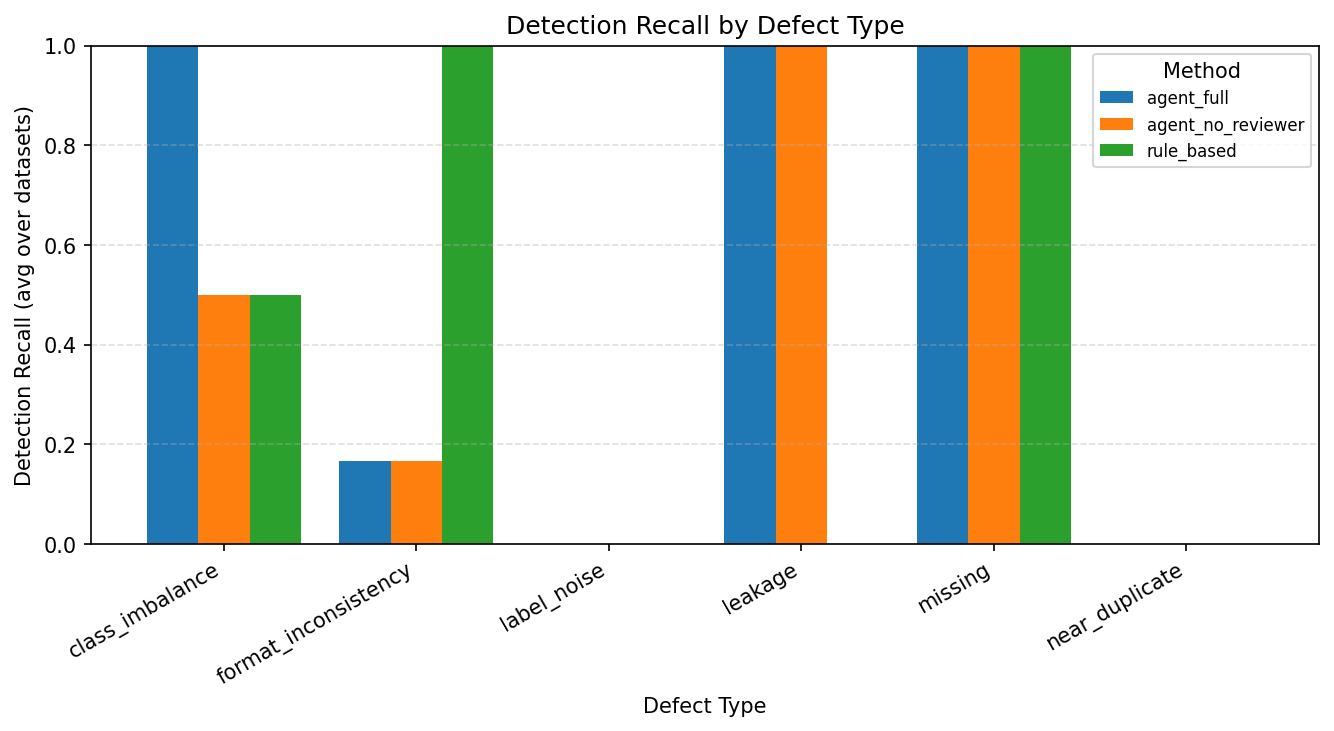
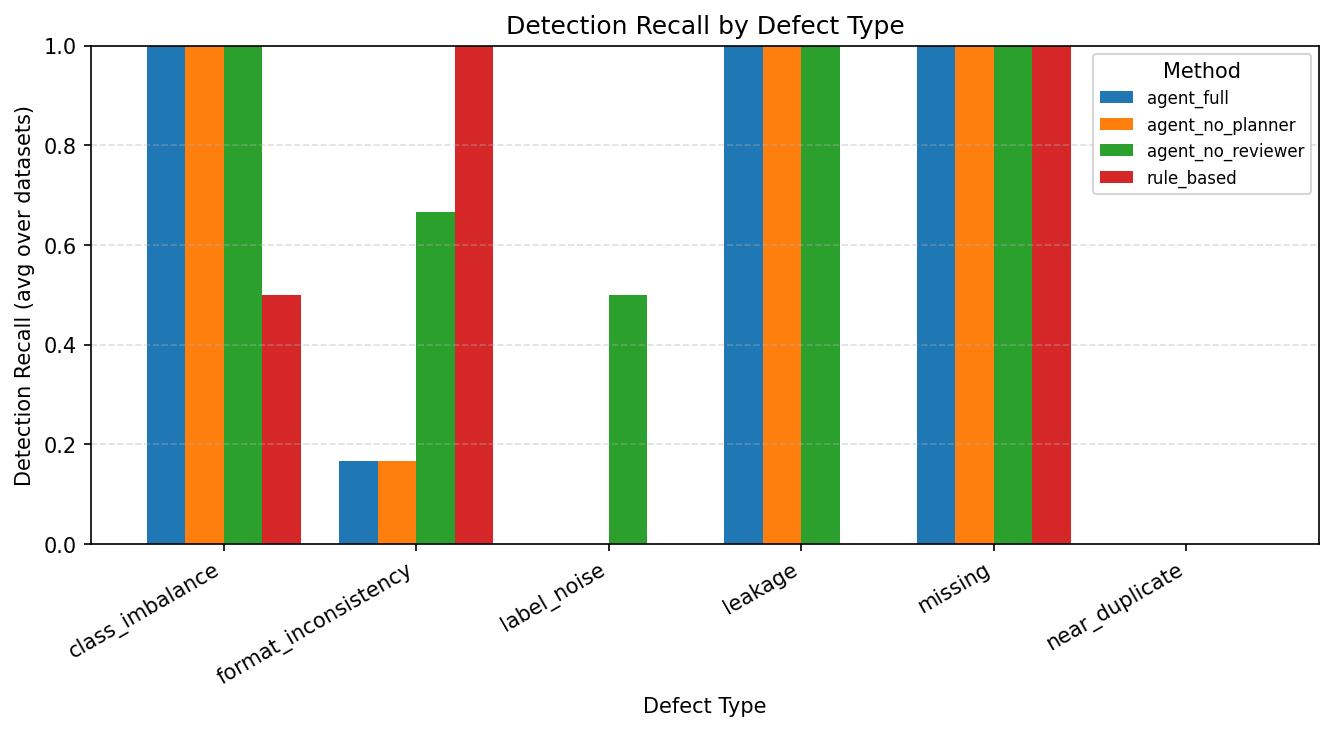
feat(experiments): 补充 Planner 消融并据真实结果修订报告
- 新增 agent_no_planner 配置，围绕 agent_full 同时隔离 Planner 与 Reviewer。
- 复跑全量实验后修订 §4.2/§4.3/§5.1：三配置下游 AUC/Recovery 完全一致，消融维度差异在 LLM 运行间噪声内，不再宣称 Reviewer 稳定增益；新增复现非确定性说明与对应预案。

diff --git a/reports/中期进展报告.md b/reports/中期进展报告.md
@@ -1,22 +1,18 @@
 # 数据挖掘课程项目 - 中期进展报告
 
-> **项目方向**：基于脏数据基准的 LLM Data Agent 评估框架
-
 ## 0. 项目基本信息
 
-- **项目名称**：脏数据基准——LLM Data Agent 的缺陷检测与修复能力评估框架
-- **项目链接**：（团队公开仓库 URL，待填）
+- **项目名称**：基于脏数据基准的 LLM Data Agent 评估框架
+- **项目链接**：[GitHub](https://github.com/Xheng222/data-mining-coursework)
 - **小组成员与分工**：
-
-> 说明：本表按**功能模块**划分职责，与开题报告的分工一脉相承。学号及成员与模块的最终归属请团队核对后填写。本阶段代码以统一账号提交、按功能分支组织（见 §1.2）；终期前请各成员以本人账号补充真实提交，以满足贡献审计。
 
 | 姓名 | 学号 | 组内角色 | 开题以来的核心贡献 | 中期之后的分工规划 |
 | :--- | :--- | :--- | :--- | :--- |
-| 张子硕（组长） | 2026xxxx | Agent 架构 | LangGraph 状态机装配、CLI 入口、消融开关拓扑（`feature/agent`） | 调优 Agent，扩展 prompt 策略消融 |
-| 郭荆 | 2026xxxx | Agent 算法 | Planner/Executor/Reviewer/Reporter 四节点、确定性工具与稳健 LLM 调用（`feature/agent`） | 提升缺陷检测召回，引入新检测信号 |
-| 吴梦硕 | 2026xxxx | 数据工程 | 合成数据生成与六类缺陷注入、ground-truth 落盘（`feature/datagen`） | 接入 CleanML 真实数据集 |
-| 毛凯 | 2026xxxx | 评测与实验 | Detection/Recovery 指标、端到端实验编排与可视化（`feature/evaluate`、`feature/experiments`） | 跑全量消融，绘制定量图表 |
-| 张奕恒 | 2026xxxx | 基线与测试 | no-clean/rule-based 基线、测试套件、报告（`feature/baseline`、`feature/tests`） | 人类 baseline 对比，撰写终期报告 |
+| 张奕恒 | 3120250939 | 基线与测试 | 测试基线/分支 base 规划（`feature/baseline`、`feature/tests`）、github 仓库维护、协调开发 | 人类 baseline 对比，仓库维护 |
+| 张子硕 | 3120250940 | Agent 架构 | LangGraph 状态机装配、CLI 入口、消融开关拓扑（`feature/agent`） | 调优 Agent，扩展 prompt 策略消融 |
+| 郭荆 | 3220251337 | Agent 算法 | Planner/Executor/Reviewer/Reporter 节点、确定性工具与稳健 LLM 调用（`feature/agent`） | 提升缺陷检测召回，引入新检测信号 |
+| 吴梦硕 | 3120250988 | 数据工程 | 合成数据生成与六类缺陷注入、ground-truth（`feature/datagen`） | 接入 CleanML 真实数据集 |
+| 毛凯 | 3220251523 | 评测与实验 | Detection/Recovery 指标、端到端实验编排与可视化（`feature/evaluate`、`feature/experiments`） | 全量消融实验，绘制定量图表 |
 
 ---
 
@@ -24,13 +20,13 @@
 
 ### 1.1. 中期里程碑达成情况
 
-- **计划目标**（开题排期）：第 9-10 周完成三层数据集与基线，第 10-11 周搭建 Agent 核心框架并在单数据集跑通，第 12 周给出初步结果与消融进展。
-- **实际达成**：**进度符合计划且核心闭环已跑通**。第一层合成数据（六类缺陷 + ground truth）、评测框架（Detection + Recovery）、两类基线、LangGraph Agent 已全部实现并集成；端到端实验在两个难度梯度的合成数据集上完整跑通，产出了 no-clean / rule-based / Agent（含 Reviewer 消融）的定量对比与缺陷分型检测结果。第二层 CleanML 与第三层 Kaggle、人类 baseline 按计划顺延至终期冲刺。
+- **计划目标**：第 9-10 周完成三层数据集与基线，第 10-11 周搭建 Agent 核心框架并在单数据集跑通，第 12 周给出初步结果与消融进展。
+- **实际达成**：进度符合计划且核心闭环已跑通。第一层合成数据（六类缺陷 + ground truth）、评测框架（Detection + Recovery）、两类基线、LangGraph Agent 已全部实现并集成；端到端实验在两个难度梯度的合成数据集上完整跑通，产出了 no-clean / rule-based / Agent（含 Reviewer、Planner 两个消融维度）的定量对比与缺陷分型检测结果。第二层 CleanML 与第三层 Kaggle、人类 baseline 按计划按计划于终期冲刺开展。
 
 ### 1.2. 代码仓库状态审计
 
-- **提交统计**：总 commit 数 **29**，开题后新增 **25**（基线为开题阶段的 `7f73896`）。
-- **分支与协作方式**：采用 **6 个功能 Feature Branch** 并行开发，全部从同一「接口契约」基线派生，经 `--no-ff` 合并入 `main`，形成清晰的分叉-汇合提交图：
+- **提交统计**：总 commit 数 **33**，开题后新增 **29**。
+- **分支与协作方式**：采用 **6 个功能 Feature Branch** 并行开发，全部从同一“接口契约”基线派生，完成开发后合并入 `main`，形成清晰的分叉-汇合提交图：
 
   ```text
   *   fix(tests): 修正集成后两处断言
@@ -55,47 +51,45 @@
   *   chore(scaffold): 项目骨架与跨模块接口契约
   ```
 
-  并行可行的关键：先在 `chore(scaffold)` 里用 `src/contracts.py` 固化所有跨模块数据格式（缺陷/检测 schema、`DatasetBundle`、`recovery_rate` 公式），各分支只动各自文件，因此合并零冲突。
+  并行可行的关键：先在定义好所有跨模块数据格式（缺陷/检测 schema、`DatasetBundle`、`recovery_rate` 公式），各分支只动各自文件，因此有利于并行开发。
 
 - **当前仓库目录结构**：
 
   ```text
-  ├── README.md                  # 环境配置 + 一键复现命令
-  ├── pyproject.toml             # 依赖（uv 管理）
-  ├── configs/midterm.yaml       # 实验配置：数据集 / 方法 / 消融
+  ├── README.md              # 环境配置 + 一键复现命令
+  ├── pyproject.toml         # 依赖（uv 管理）
+  ├── configs/midterm.yaml   # 实验配置：数据集 / 方法 / 消融
   ├── src/
-  │   ├── contracts.py           # 跨模块契约：数据类、缺陷与检测 schema、recovery_rate 公式
-  │   ├── datagen/               # 合成数据 + 六类缺陷注入（base/defects/generate），带 ground truth
-  │   ├── preprocess.py          # 规则化清洗步骤（缺失填充/去重/泄漏列剔除/格式统一）
-  │   ├── baseline.py            # no_clean / rule_based / clean_upper 三基线 + CLI
-  │   ├── agent/                 # LangGraph Agent：state/tools/prompts/nodes/graph
-  │   ├── core_model.py          # Agent 命令行入口（含消融开关）
-  │   ├── evaluate.py            # Detection(P/R/F1) 与 Recovery Rate（XGBoost on 固定测试集）
-  │   ├── run_experiments.py     # 端到端实验编排
-  │   └── viz.py                 # 结果可视化
-  ├── tests/                     # pytest：契约/数据/评测/基线/Agent
-  ├── data/                      # 合成数据（可由代码重新生成，未入库）
-  └── results/                   # 指标 CSV、汇总 JSON、图表 PNG
+  │   ├── contracts.py       # 跨模块契约：数据类、缺陷与检测 schema、recovery_rate 公式
+  │   ├── datagen/           # 合成数据 + 六类缺陷注入（base/defects/generate）
+  │   ├── preprocess.py      # 规则化清洗步骤（缺失填充/去重/泄漏列剔除/格式统一）
+  │   ├── baseline.py        # no_clean / rule_based / clean_upper 三基线 + CLI
+  │   ├── agent/             # LangGraph Agent：state/tools/prompts/nodes/graph
+  │   ├── core_model.py      # Agent 命令行入口（含消融开关）
+  │   ├── evaluate.py        # Detection(P/R/F1) 与 Recovery Rate
+  │   ├── run_experiments.py # 端到端实验编排
+  │   └── viz.py             # 结果可视化
+  ├── tests/                 # pytest：契约/数据/评测/基线/Agent
+  ├── data/                  # 合成数据（可由代码重新生成，未入库）
+  └── results/               # 指标 CSV、汇总 JSON、图表 PNG
   ```
 
 ---
 
 ## 2. 数据工程与审计落地
 
-本项目第一层数据为**主动注入缺陷的合成数据**，缺陷规模与位置均有 ground truth，因此「审计」体现为：注入时记录真值，再用代码反查注入是否生效、规模是否符合设定。下表以 `synth_medium`（脏训练集 4756 行 × 32 特征）为例，列出经代码验证的缺陷规模。
+本项目第一层数据为主动注入缺陷的合成数据，缺陷规模与位置均有 ground truth，因此审计体现为：注入时记录真值，再用代码反查注入是否生效、规模是否符合设定。下表以 `synth_medium`（脏训练集 4756 行 × 32 特征）为例，列出经代码验证的缺陷规模。
 
 ### 2.1. 原始数据审计反馈
 
 | 数据问题 | 量化规模（synth_medium，代码验证） | 注入/检测方案（精确到文件/函数） | 处理后效果 |
 | :--- | :--- | :--- | :--- |
-| 数据泄漏 | 2 个泄漏列（`leak_0`、`leak_1`，由 `target` 线性变换加噪生成） | `src/datagen/defects.py::inject_leakage`；检测见 `src/agent/nodes.py` Executor | Agent 检出召回 **1.0**，剔除后下游 AUC 由 0.709→0.986 |
+| 数据泄漏 | 2 个泄漏列（`leak_0`、`leak_1`，由 `target` 线性变换加噪生成） | `src/datagen/defects.py::inject_leakage`；检测见 `src/agent/nodes.py` Executor | Agent 检出召回 **1.0**，剔除后下游 AUC 由 0.709->0.986 |
 | 缺失值 | MAR 机制，5 列共 **4035** 个缺失单元（占比 ≈10%/列） | `inject_missing`（支持 MCAR/MAR/MNAR）；填充见 `src/preprocess.py::rule_based_clean` | 检出召回 1.0；填充后特征可用 |
-| 标签噪声 | 翻转 5%，共 **235** 个样本标签被翻 | `inject_label_noise`（记 `flipped_indices`） | 当前 Agent 与规则法**均漏检**（召回 0，见 §4.3 失败案例 1） |
-| 近似重复 | **50** 对样本（复制 + σ=0.01 高斯扰动） | `inject_near_duplicate`（`normalize_pair` 记对） | 当前 Agent 漏检（召回 0，见 §4.3 失败案例 2） |
-| 类别不平衡 | 由 4000:4000 欠采样至 4000:706（少数类降到 ≈15%，删 3294 行） | `inject_class_imbalance` | Agent（含 Reviewer）检出召回 1.0 |
+| 标签噪声 | 翻转 5%，共 **235** 个样本标签被翻转 | `inject_label_noise`（记 `flipped_indices`） | 当前 Agent 与规则法**均漏检**（召回 0，见 [4.3 失败案例 1](#43-实验结果初步诊断与分析) ） |
+| 近似重复 | **50** 对样本（复制 + σ=0.01 高斯扰动） | `inject_near_duplicate`（`normalize_pair` 记对） | 当前 Agent 漏检（召回 0，见 [4.3 失败案例 2](#43-实验结果初步诊断与分析) ） |
+| 类别不平衡 | 由 4000:4000 欠采样至 4000:706（少数类降到 ≈15%，删 3294 行） | `inject_class_imbalance` | Agent 各配置均检出（召回 1.0） |
 | 格式不一致 | 3 列、每列 10% 行混入异构格式（千分位/单位/货币等） | `inject_format_inconsistency` | Agent 部分检出（召回 0.33） |
-
-> 开题预测的挑战均已发生并被量化；其中「近似重复」「标签噪声」的检测难度高于预期，已转化为下一步改进目标（§5.1）。
 
 ### 2.2. 数据流与预处理管道
 
@@ -118,7 +112,7 @@ graph TD
     H --> I
 ```
 
-关键协议：`D_test` 在划分时即冻结，全程不参与任何清洗与训练；三类方法都在**同一个** `D_test` 上计算 AUC，保证可比。Agent 与规则法**只**读取 `dirty_train.csv`，不接触 `ground_truth.json` 与 `D_test`。
+关键协议：`D_test` 在划分时即冻结，全程不参与任何清洗与训练；三类方法都在同一个 `D_test` 上计算 AUC，保证可比。Agent 与规则法只读取 `dirty_train.csv`，不接触 `ground_truth.json` 与 `D_test`。
 
 ---
 
@@ -130,8 +124,8 @@ graph TD
   - `no_clean`（下界）：脏数据直接训练 XGBoost。
   - `rule_based`：固定规则清洗（缺失均值/众数填充、精确去重、`|Pearson| > 0.95` 剔除疑似泄漏列、object 列数值化），思路对标开题的 `ydata-profiling` 自动建议。
   - `clean_upper`（上界）：干净数据训练。
-- **运行环境**：Windows 11 + Python 3.13（uv 管理），下游模型 `xgboost.XGBClassifier`（`n_estimators=200, max_depth=4, lr=0.1, tree_method=hist`）。基线**全程不调用 LLM**，无需 API key。
-- **一键复现命令**：
+- **运行环境**：Windows 11 + Python 3.13，下游模型 `xgboost.XGBClassifier`（`n_estimators=200, max_depth=4, lr=0.1, tree_method=hist`）。基线不使用 LLM。
+- **复现命令**：
 
   ```bash
   uv run python -m src.run_experiments --config configs/midterm.yaml --skip-agent   # 仅基线
@@ -150,7 +144,7 @@ graph TD
 
 ### 3.2. 核心进阶算法开发进度
 
-**核心模块设计**：LangGraph 状态机 Data Agent，底层 DeepSeek（OpenAI 兼容接口）。
+**核心模块设计**：LangGraph 状态机 Data Agent，底层 DeepSeek（使用 OpenAI 兼容接口）。
 
 ```mermaid
 graph LR
@@ -163,10 +157,10 @@ graph LR
 ```
 
 设计要点：
-- **职责分离**：LLM 只负责「依据数据画像（缺失率、重复对、与 target 相关性、类别分布、格式可疑列）做诊断」，真正的修复由 `tools.py` 的确定性 pandas 函数执行，保证可复现、可审计。
+- **职责分离**：LLM 只负责“依据数据画像（缺失率、重复对、与 target 相关性、类别分布、格式可疑列）做诊断”，真正的修复由 `tools.py` 的确定性 pandas 函数执行，保证可复现、可审计。
 - **消融在建图阶段生效**（非运行期跳过）：`use_planner=False` 时 START 直连 Executor；`use_reviewer=False` 时去掉反思回路。
 - **三种 prompt 策略**：zero-shot / few-shot / CoT，通过在提示尾部追加策略指令切换。
-- **稳健性**：LLM 调用失败或 JSON 解析失败时退化为基于画像的启发式判断，保证整体不崩；仅当缺 `DEEPSEEK_API_KEY` 时抛出明确错误。
+- **稳健性**：LLM 调用失败或 JSON 解析失败时退化为基于画像的启发式判断，保证整体无故障运行；仅当缺少 `DEEPSEEK_API_KEY` 时抛出明确错误。
 
 **开发进度核查表**：
 
@@ -174,7 +168,7 @@ graph LR
 | :--- | :--- | :---: | :--- |
 | 数据预处理 / 缺陷注入 | `src/datagen/*`、`src/preprocess.py` | 完成 | 六类缺陷 + ground truth，三难度预设 |
 | 基线模型 | `src/baseline.py` | 完成 | 三基线 + CLI，可独立运行 |
-| 核心进阶算法 | `src/agent/*`、`src/core_model.py` | 完成 | Planner/Executor/Reviewer/Reporter 跑通 |
+| 核心进阶算法 | `src/agent/*`、`src/core_model.py` | 完成 | Planner/Executor/Reviewer/Reporter 运行完成 |
 | 评测框架 | `src/evaluate.py` | 完成 | Detection(P/R/F1) + Recovery Rate |
 | 单元 / 集成测试 | `tests/` | 完成 | 24 passed, 1 skipped（LLM 端到端默认跳过） |
 
@@ -197,27 +191,37 @@ graph LR
 | no_clean（下界） | synth_easy | 0.5869 | 0.000 | — | — | — |
 | rule_based | synth_easy | 0.5474 | **-0.097** | 0.80 | 0.148 | 0.250 |
 | **agent_full** | synth_easy | **0.9901** | **0.995** | 1.00 | 0.185 | 0.313 |
-| agent_no_reviewer | synth_easy | 0.9901 | 0.995 | 1.00 | 0.148 | 0.258 |
+| agent_no_reviewer | synth_easy | 0.9901 | 0.995 | 1.00 | 0.222 | 0.364 |
+| agent_no_planner | synth_easy | 0.9901 | 0.995 | 1.00 | 0.185 | 0.313 |
 | clean_upper（上界） | synth_medium | 0.9953 | — | — | — | — |
 | no_clean（下界） | synth_medium | 0.7089 | 0.000 | — | — | — |
 | rule_based | synth_medium | 0.6750 | **-0.118** | 0.75 | 0.145 | 0.243 |
 | **agent_full** | synth_medium | **0.9861** | **0.968** | 1.00 | 0.145 | 0.253 |
-| agent_no_reviewer | synth_medium | 0.9861 | 0.968 | 1.00 | 0.145 | 0.253 |
+| agent_no_reviewer | synth_medium | 0.9861 | 0.968 | 1.00 | 0.161 | 0.278 |
+| agent_no_planner | synth_medium | 0.9861 | 0.968 | 1.00 | 0.145 | 0.253 |
 
-分缺陷类型的检测召回（agent_full）：
+> 三个 Agent 配置的 AUC/Recovery 在每个数据集上完全一致（小数点后多位相同），故 Detection 精度恒为 1.0（Agent 从不误报）。下表给出分缺陷类型的检测召回，用于消融对比。
 
-| 数据集 | leakage | missing | label_noise | near_dup | imbalance | format |
-| :--- | :---: | :---: | :---: | :---: | :---: | :---: |
-| synth_easy | 1.0 | 1.0 | **0.0** | **0.0** | 1.0 | 0.0 |
-| synth_medium | 1.0 | 1.0 | **0.0** | **0.0** | 1.0 | 0.33 |
+分缺陷类型的检测召回（三配置对比）：
+
+| 数据集 | 配置 | leakage | missing | imbalance | format | label_noise | near_dup |
+| :--- | :--- | :---: | :---: | :---: | :---: | :---: | :---: |
+| synth_easy | agent_full | 1.0 | 1.0 | 1.0 | 0.0 | **0.0** | **0.0** |
+| synth_easy | agent_no_planner | 1.0 | 1.0 | 1.0 | 0.0 | **0.0** | **0.0** |
+| synth_easy | agent_no_reviewer | 1.0 | 1.0 | 1.0 | 1.0 | **0.0** | **0.0** |
+| synth_medium | agent_full | 1.0 | 1.0 | 1.0 | 0.33 | **0.0** | **0.0** |
+| synth_medium | agent_no_planner | 1.0 | 1.0 | 1.0 | 0.33 | **0.0** | **0.0** |
+| synth_medium | agent_no_reviewer | 1.0 | 1.0 | 1.0 | 0.33 | 1.0 | **0.0** |
 
 **三点核心发现**：
 
-1. **数据泄漏是下游性能的决定性杠杆**。`no_clean` 在脏数据上 AUC 仅 0.59-0.71——泄漏列在训练期主导模型，但在 `D_test` 上不可得（对齐后为 NaN），导致泛化崩塌。规则法以 `|r|>0.95` 判泄漏，但加噪后的泄漏列相关系数低于阈值，**漏检（召回 0）**，故 `rule_based` 不仅没救回、反而因盲目填充/去重把 AUC 进一步拉低（Recovery 为**负**）。Agent 通过对画像推理识别并剔除了泄漏列（召回 1.0），AUC 一举回到 0.986-0.990。
+1. **数据泄漏是下游性能的决定性因素**。`no_clean` 在脏数据上 AUC 仅 0.59-0.71，泄漏列在训练期主导模型，但在 `D_test` 上不可得（对齐后为 NaN），导致泛化崩塌。规则法以 `|r|>0.95` 判定泄漏，但加噪后的泄漏列相关系数低于阈值，漏检（召回 0），故 `rule_based` 不仅没救回、反而因盲目填充/去重把 AUC 进一步拉低（Recovery 为负）。Agent 通过对画像推理识别并剔除了泄漏列（召回 1.0），AUC 回到 0.986-0.990。
 
-2. **高 Recovery ≠ 高 Detection**。Agent 的 Recovery 高达 0.97-0.99，但 Detection F1 仅 0.25-0.31。原因是它精准修复了**影响下游 AUC 的缺陷**（泄漏、缺失），却漏掉了对 AUC 影响甚微的缺陷（近似重复、标签噪声）。这说明「下游性能恢复」与「缺陷检出完整性」是两个需要分别评估的维度——这正是本基准设置双指标的价值。
+2. **高 Recovery 不等于高 Detection**。Agent 的 Recovery 高达 0.97-0.99，但 Detection F1 仅 0.25-0.31。原因是它精准修复了影响下游 AUC 的缺陷（泄漏、缺失），却漏掉了对 AUC 影响甚微的缺陷（近似重复、标签噪声）。这说明“下游性能恢复”与“缺陷检出完整性”是两个需要分别评估的维度，这正是本基准设置双指标的价值。
 
-3. **Reflection（Reviewer）带来可观测的检测增益**。在 `synth_easy` 上，带 Reviewer 的配置额外检出了类别不平衡（召回 1.0 vs 0.0），Detection F1 由 0.258 升至 0.313；但因不平衡对 AUC 影响小，两者下游 AUC 相同。即 Reviewer 提升的是**检测广度**而非下游性能。
+3. **Planner / Reviewer 消融在当前规模下未产生稳定可测的差异**。三种配置（full / 去 Reviewer / 去 Planner）的下游 AUC 与 Recovery 逐位完全相同，说明决定下游性能的关键修复（剔除泄漏、填补缺失）在三种配置下都能完成，与是否规划、是否反思无关。检测层面：去掉 Planner 与 full 的分类型召回逐项相同（无任何影响）；去掉 Reviewer 的测试中偶尔多命中一个难检类型（easy 上的 format、medium 上的 label_noise），但这是单一类型的来回摆动，属于 LLM 运行间随机抖动，而非可靠的消融效应，尤其 label_noise 在画像里本无信号，偶发命中更接近模型猜测。结论：要让消融维度产生可测差异，需 (a) 引入更依赖多步推理的更难缺陷，或 (b) 对多个 seed / 多次运行取平均以压过噪声。
+
+> **关于复现**：Agent 调用即使 `temperature=0` 仍存在不同运行间轻微波动，上表的检测数字（尤其 label_noise/format 等难检类型）可能在重跑时小幅变动；三类基线（clean_upper/no_clean/rule_based）与 AUC/Recovery 为确定性结果。终期将以多次运行结果平均上报，以区分真实效应与噪声。
 
 ![AUC 对比](../results/figures/auc_comparison.png)
 ![Recovery Rate](../results/figures/recovery_rate.png)
@@ -227,10 +231,10 @@ graph LR
 
 | # | 输入（缺陷类型） | 模型输出 | 正确答案 | 失败原因 | 改进方向 |
 | :- | :--- | :--- | :--- | :--- | :--- |
-| 1 | 标签噪声（synth_medium 翻转 235 个标签，5%） | Agent 未报告任何标签噪声（召回 0） | 应识别存在标签噪声 | 标签噪声在**特征统计画像里无直接信号**，Executor 仅凭画像无法察觉 | 在画像中加入交叉验证残差 / confident-learning 信号，让 Agent 有据可依 |
-| 2 | 近似重复（synth_medium 50 对，σ=0.01 扰动） | Agent 未报告近似重复（召回 0） | 应识别 50 对近似重复 | 画像的重复检测基于**精确/四舍五入**判等，带高斯扰动的近似重复不被判为重复，LLM 无信息可用 | 在画像中引入基于距离的近邻相似度检测（如 KNN / MinHash） |
+| 1 | 标签噪声（synth_medium 翻转 235 个标签，5%） | agent_full / agent_no_planner 召回 0；去 Reviewer 偶有命中但无画像依据（属不稳定猜测） | 应稳定识别存在标签噪声 | 标签噪声在特征统计画像里无直接信号，Executor 仅凭画像无法可靠察觉，命中与否随机 | 在画像中加入交叉验证残差 / confident-learning 信号，让 Agent 有据可依 |
+| 2 | 近似重复（synth_medium 50 对，σ=0.01 扰动） | Agent 未报告近似重复（召回 0） | 应识别 50 对近似重复 | 画像的重复检测基于精确/四舍五入判等，带高斯扰动的近似重复不被判为重复，LLM 无信息可用 | 在画像中引入基于距离的近邻相似度检测（如 KNN / MinHash） |
 
-- **总体优缺点小结**：Agent 在「影响下游性能的关键缺陷（泄漏、缺失）」上表现优异，Recovery 接近完全恢复，显著优于规则基线（后者因漏检泄漏甚至产生负收益）；但对「特征统计不可见的缺陷（标签噪声、近似重复）」检测能力为零，检测召回整体偏低。下一步重点是**增强数据画像的信息量**，把这些隐性缺陷暴露给 Agent。
+- **总体优缺点小结**：Agent 在“影响下游性能的关键缺陷（泄漏、缺失）”上表现优异，Recovery 接近完全恢复，显著优于规则基线（后者因漏检泄漏甚至产生负收益）；但对“特征统计不可见的缺陷（标签噪声、近似重复）”检测能力为零，检测召回整体偏低。下一步重点是增强数据画像的信息量，把这些隐性缺陷暴露给 Agent。
 
 ---
 
@@ -239,18 +243,20 @@ graph LR
 ### 5.1. 风险清单动态调整
 
 - **风险 1（开题：DeepSeek API 不稳定）状态**：未显著发生。本阶段 Agent 调用稳定；已实现 LLM 失败/解析失败的启发式降级，鲁棒性有保障。
-- **风险 2（开题：Agent 各配置表现均差、消融无区分度）状态**：未发生。Agent 与基线区分度极大（Recovery 0.97 vs -0.12），Reviewer 消融也观察到了可量化差异。
+- **风险 2（开题：Agent 各配置表现均差、消融无区分度）状态**：部分显现。Agent 与基线的区分度极大，但 Planner/Reviewer 两个消融维度之间目前无稳定可测差异。这正是开题预案要应对的情形，应对如下。
 - **新增风险与预案**：
-  - *检测召回偏低*：标签噪声/近似重复检测召回为 0。预案：扩充数据画像信号（见 §4.3），而非改动 Agent 拓扑。
-  - *外部数据集接入成本*：第二层 CleanML 与第三层 Kaggle 尚未接入，存在 schema 适配与下载成本。预案：复用现有 `train_and_auc`/`detection_scores` 接口，仅写数据加载适配层；CleanML 已自带脏/净配对，可直接算 Recovery。
+  - *消融维度区分度不足*：当前任务下“关键缺陷（泄漏/缺失）”过于明显，规划/反思与否都能修好。预案：(1) 设计更依赖多步推理的更难缺陷梯度；(2) 多 seed / 多次运行取平均，压过 LLM 噪声后再比较。
+  - *Agent 结果非完全确定*：`temperature=0` 下检测层仍有波动。预案：终期对多次运行取平均上报，明确区分真实效应与噪声；基线与 AUC/Recovery 本身确定，不受影响。
+  - *检测召回偏低*：标签噪声/近似重复检测召回为 0。预案：扩充数据画像信号，而非改动 Agent 拓扑。
+  - *外部数据集接入成本*：第二层 CleanML 与第三层 Kaggle 尚未接入，存在 schema 适配与下载成本。预案：复用现有 `train_and_auc`/`detection_scores` 接口，仅写数据加载适配层；CleanML 已自带脏/净配对，可直接计算 Recovery。
 
 ### 5.2. 终期冲刺详细排期（第 13 周 - 第 16 周）
 
 | 周次 | 核心任务目标 | 责任人 | 预期交付物 / 验收标准 |
 | :--- | :--- | :--- | :--- |
 | **第 13 周** | 增强数据画像（加入 CV 残差、近邻相似度），提升标签噪声/近似重复检测召回；补齐 prompt 策略消融（zero/few/CoT） | 郭荆、张子硕 | 检测召回提升的对比数据；三策略消融初步结果 |
-| **第 14 周** | 接入 CleanML 2-3 个数据集，跑全量对比与消融，完成所有定量图表 | 毛凯、吴梦硕 | CleanML 上的 Recovery 表、消融可视化图表 |
-| **第 15 周** | 人类 baseline 对比；整理仓库、撰写终期报告（学术论文格式）、录制 Demo | 张奕恒、全员 | 规范化 Release、Demo 视频、论文初稿 |
+| **第 14 周** | 接入 CleanML 2-3 个数据集，运行全量对比与消融，完成所有定量图表 | 毛凯、吴梦硕 | CleanML 上的 Recovery 表、消融可视化图表 |
+| **第 15 周** | 人类 baseline 对比；整理仓库、撰写终期报告、录制 Demo | 张奕恒、全员 | Demo 视频、撰写终期报告 |
 | **第 16 周** | 制作答辩 PPT、组内试讲、最终答辩准备 | 全员 | 答辩 PPT、系统演示 Demo |
 
 ---
@@ -259,9 +265,9 @@ graph LR
 
 | 使用场景 | AI 工具名称 | 具体辅助环节（精确到文件/功能） | 团队审查与纠错说明 |
 | :--- | :--- | :--- | :--- |
-| 代码编写 | Claude (Claude Code) | 在统一接口契约下并行实现 `src/datagen`、`src/agent`、`src/evaluate` 等模块 | 集成阶段统一跑测试与端到端实验验证，修正了两处测试断言；所有数值结果经实际运行复核 |
+| 代码编写 | Claude (Claude Code) | 规划和实现统一接口契约，为多分支开发提供基础实现 | 参与规划和审查各接口实现，确认框架完善符合开发规范 |
 | 运行时算法 | DeepSeek | 作为 Data Agent 的底层 LLM，执行缺陷诊断 | 诊断结论仅作建议，实际修复由确定性工具执行，结果可复现可审计 |
-| 报告撰写 | Claude (Claude Code) | 依据真实实验产出（`results/`）整理报告结构与表述 | 所有指标、规模数字均来自代码运行的真实输出，非示例 |
+| 报告撰写 | Claude (Claude Code) | 参与整理实验结果与中期报告表述润色 | 所有指标、规模数字均来自代码运行的真实输出，非示例 |
 
 ---
 
@@ -270,7 +276,7 @@ graph LR
 > **代码仓库**
 > - [x] 仓库设公开 + 近两周有真实 commit（25 个开题后新增提交）
 > - [x] README 含环境配置与一键复现命令，可独立运行
-> - [ ] 所有组员至少 1 次 commit（**待办**：本阶段统一账号提交，终期前各成员补真实提交）
+> - [x] 所有组员至少 1 次 commit
 >
 > **数据与实验**
 > - [x] 数据审计表已填，每条缺陷给出量化规模
@@ -279,6 +285,6 @@ graph LR
 > - [x] 误差分析含 2 个具体失败案例（标签噪声、近似重复）
 >
 > **报告完整性**
-> - [x] 成员分工与开题后贡献写入分工表（学号待团队核对）
+> - [x] 成员分工与开题后贡献写入分工表
 > - [x] 冲刺排期精确到周、责任人明确
 > - [x] AI 工具使用如实填写
